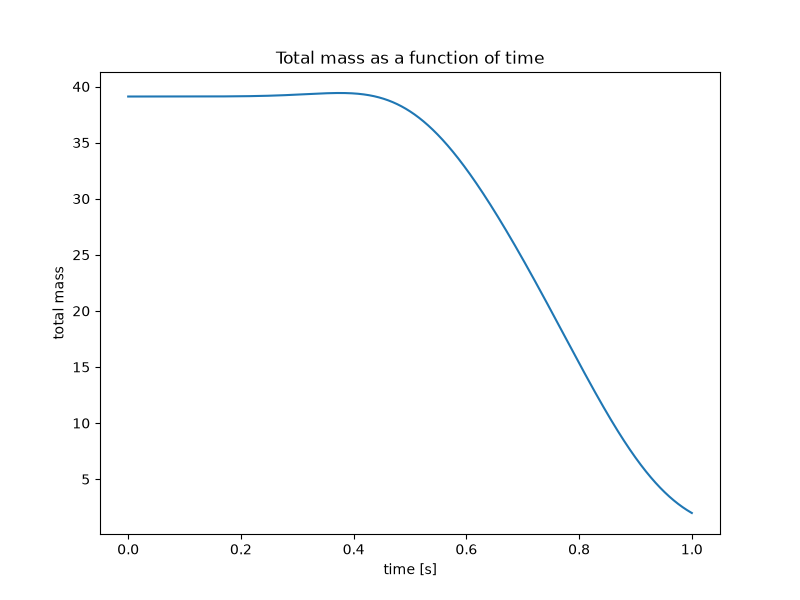
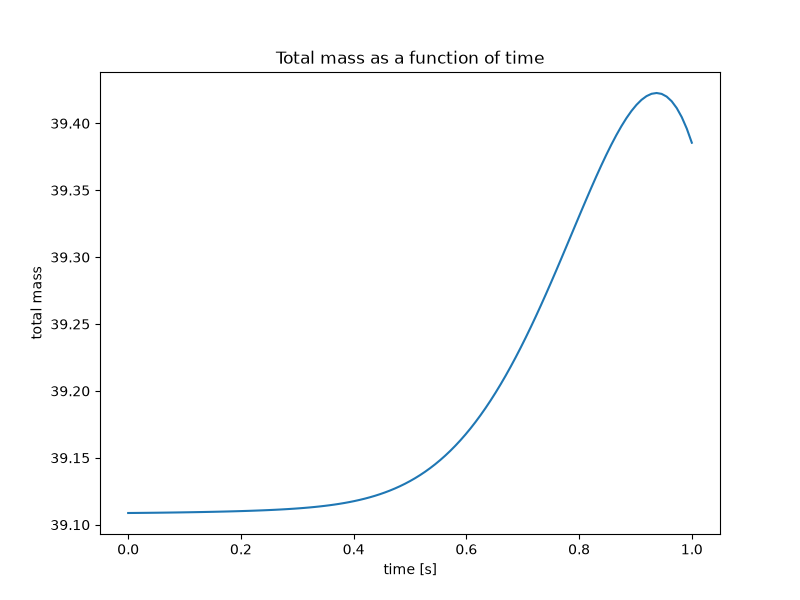
beta was fixed to our velocity

diff --git a/compare_euler_rk4.py b/compare_euler_rk4.py
@@ -86,11 +86,11 @@ beta = np.zeros(p.shape)
 for i in range(p.shape[1]):
     beta[0,i], beta[1, i] = f.get_speed(p[0, i], p[1, i])
 
-max_time = 0.3 # seconds
+max_time = 0.2 # seconds
 r0 = 0.25
 x0 = 0.3
 y0 = 0
-CFL = 0.9
+CFL = 40
 h = 0.08 # the same as the one in unit_circle.geo
 k = CFL * h / np.linalg.norm(beta, np.inf)  # timestep according to CFL condition, play around with what CFL should be
 n_iterations = int(np.ceil(max_time / k))
@@ -151,7 +151,7 @@ ax.set_zlabel("U")
 ax.set_title(f"Solution after {max_time} seconds, k={k}")
 fig.colorbar(surf, shrink=0.6)
 
-fig.savefig(f"plots_for_1-3/sol-plot_{len(p[1])}_{init_cond}_{integration}_short")
+fig.savefig(f"plots_for_1-3/sol-plot_{len(p[1])}_{init_cond}_{integration}")
 
 fig1, ax1 = plt.subplots(figsize=(8, 6))
 ax1.plot(np.linspace(0, 1, n_iterations), total_mass, label="total mass")
@@ -159,7 +159,7 @@ ax1.set_xlabel("time [s]")
 ax1.set_ylabel("total mass")
 ax1.set_title("Total mass as a function of time")
 
-fig1.savefig(f"plots_for_1-3/mass-plot_{len(p[1])}_{init_cond}_{integration}_short")
+fig1.savefig(f"plots_for_1-3/mass-plot_{len(p[1])}_{init_cond}_{integration}")
 
 
 

diff --git a/exact.py b/exact.py
@@ -29,7 +29,7 @@ init_cond = 'A' if initial_A else 'B'
 
 msh = mesh.create_rectangle(
     MPI.COMM_SELF,
-    points=[[-0.5, -0.5], [0.5, 0.5]],
+    points=[[-1, -1], [1, 1]],
     n=[50, 50],
     cell_type=mesh.CellType.triangle,
 )
@@ -51,7 +51,7 @@ C = convection_assembler_2d(p, t, bx, by)
 
 one = np.ones(p.shape[1])
 
-time = 1
+time = 0.2
 
 
 r0 = 0.25
@@ -80,4 +80,4 @@ ax.set_zlabel("U")
 ax.set_title(f"Solution after {time} seconds")
 fig.colorbar(surf, shrink=0.6)
 
-fig.savefig(f"plots_Exact/sol_{init_cond}")
+fig.savefig(f"plots_Exact/short_{init_cond}")

diff --git a/simulate_init_A.py b/simulate_init_A.py
@@ -37,8 +37,8 @@ M = mass_assembler_2d(p, t)
 b = load_assembler_2d(p, t, lambda x, y: 1.0)
 S = stiffness_assembler_2d(p, t)
 
-bx = np.ones(p.shape[1])
-by = 2.0 * np.ones(p.shape[1])
+bx = -2 * np.pi * p[1,:]
+by = 2 * np.pi * p[0,:]
 C = convection_assembler_2d(p, t, bx, by)
 
 A = S + C

diff --git a/simulate_init_A_stabilized.py b/simulate_init_A_stabilized.py
@@ -37,8 +37,8 @@ M = mass_assembler_2d(p, t)
 b = load_assembler_2d(p, t, lambda x, y: 1.0)
 S = stiffness_assembler_2d(p, t)
 
-bx = np.ones(p.shape[1])
-by = 2.0 * np.ones(p.shape[1])
+bx = -2 * np.pi * p[1,:]
+by = 2 * np.pi * p[0,:]
 C = convection_assembler_2d(p, t, bx, by)
 
 A = S + C

diff --git a/simulate_init_B.py b/simulate_init_B.py
@@ -37,8 +37,8 @@ M = mass_assembler_2d(p, t)
 b = load_assembler_2d(p, t, lambda x, y: 1.0)
 S = stiffness_assembler_2d(p, t)
 
-bx = np.ones(p.shape[1])
-by = 2.0 * np.ones(p.shape[1])
+bx = -2 * np.pi * p[1,:]
+by = 2 * np.pi * p[0,:]
 C = convection_assembler_2d(p, t, bx, by)
 
 A = S + C

diff --git a/simulate_init_B_stabilized.py b/simulate_init_B_stabilized.py
@@ -37,8 +37,8 @@ M = mass_assembler_2d(p, t)
 b = load_assembler_2d(p, t, lambda x, y: 1.0)
 S = stiffness_assembler_2d(p, t)
 
-bx = np.ones(p.shape[1])
-by = 2.0 * np.ones(p.shape[1])
+bx = -2 * np.pi * p[1,:]
+by = 2 * np.pi * p[0,:]
 C = convection_assembler_2d(p, t, bx, by)
 
 A = S + C
